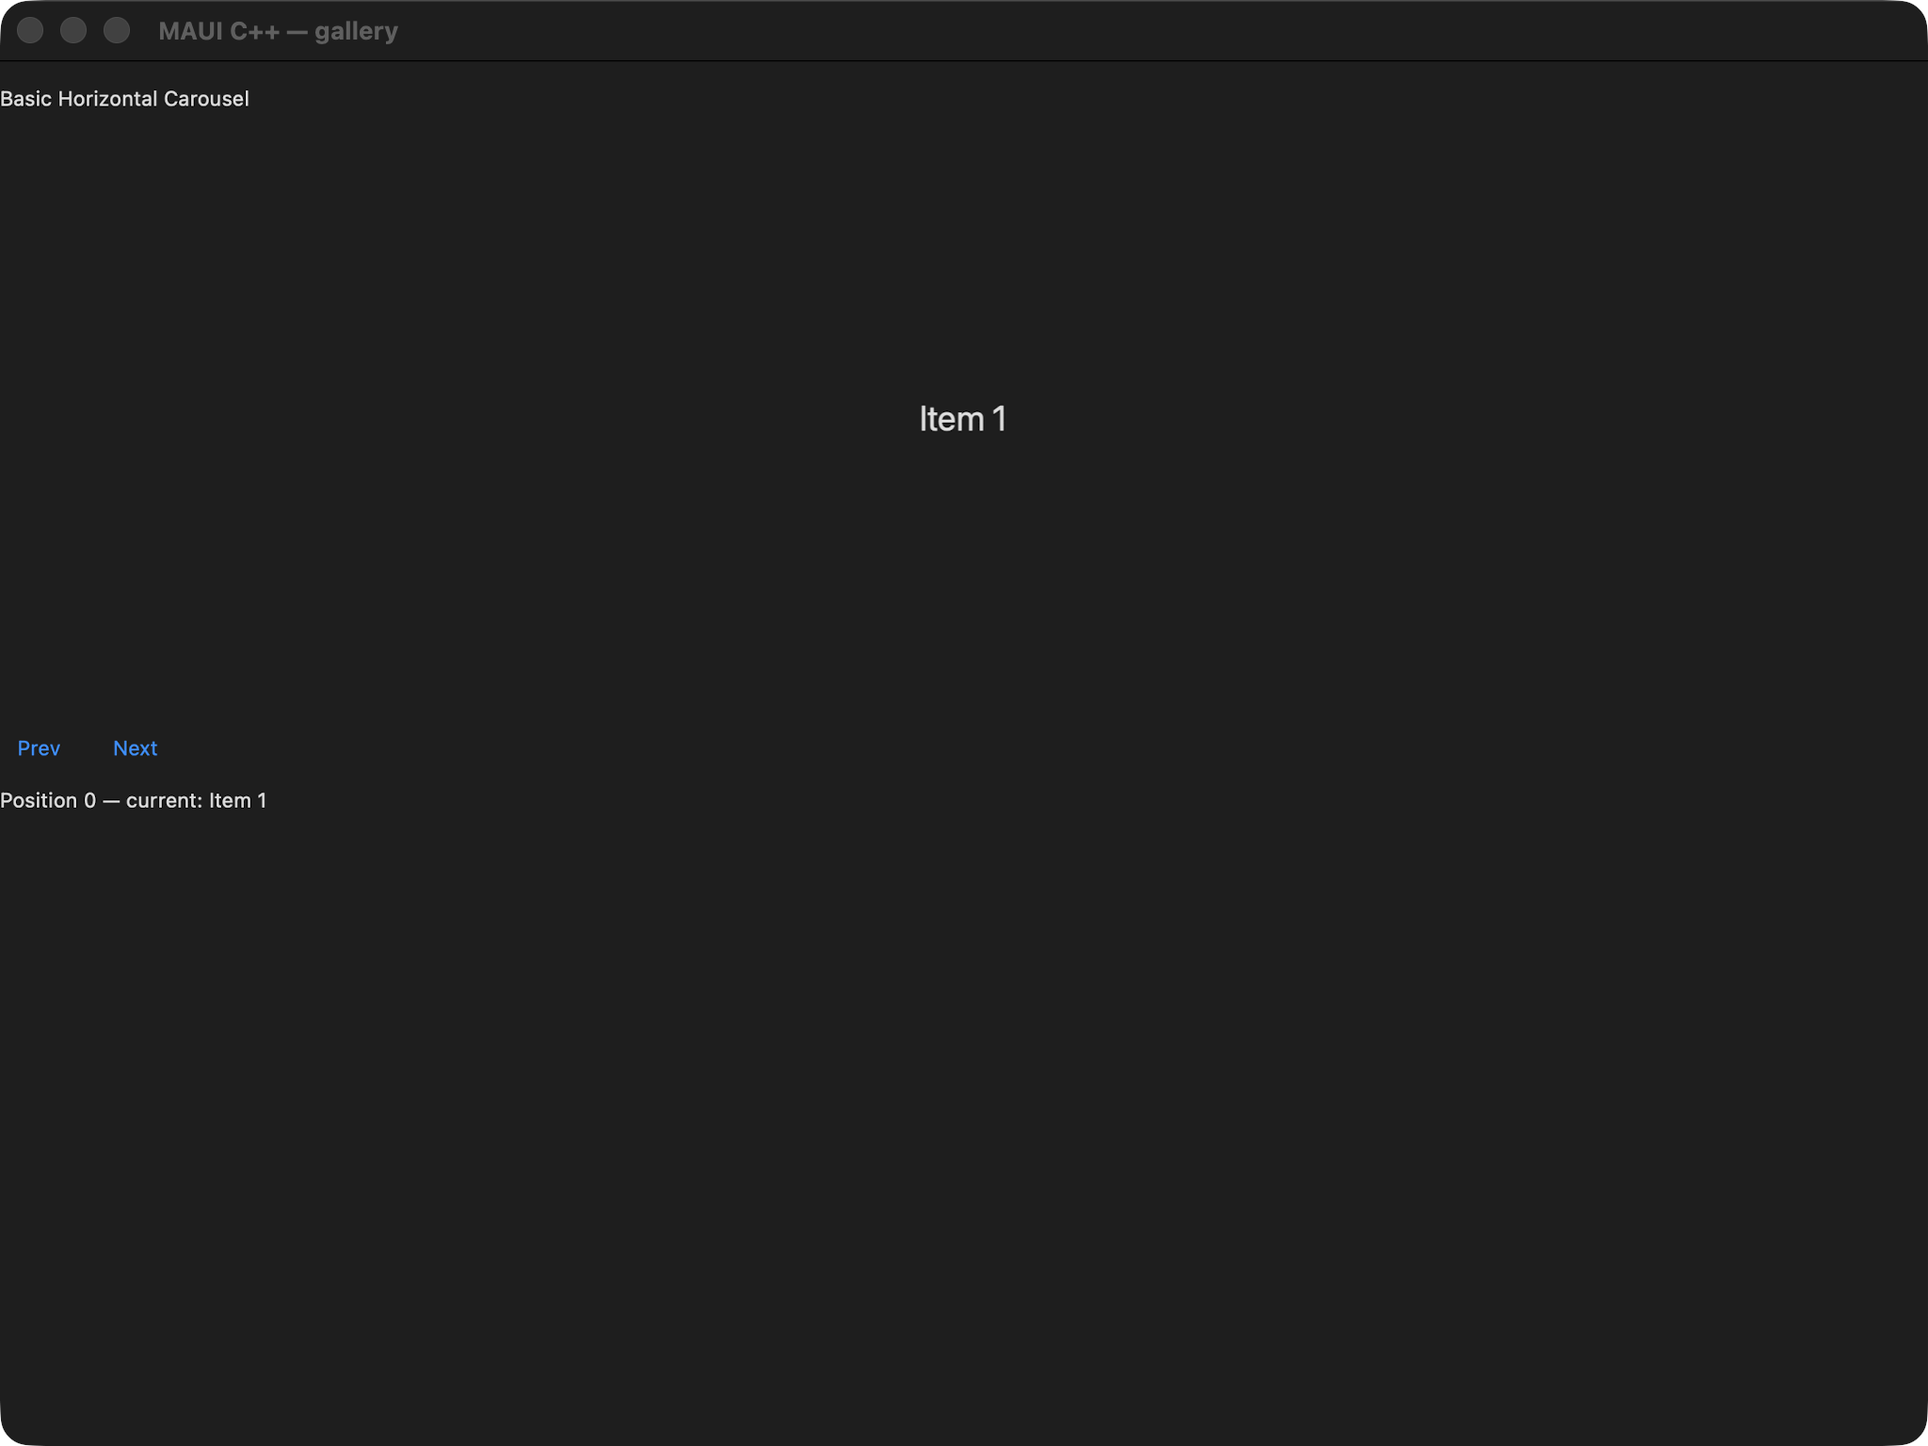
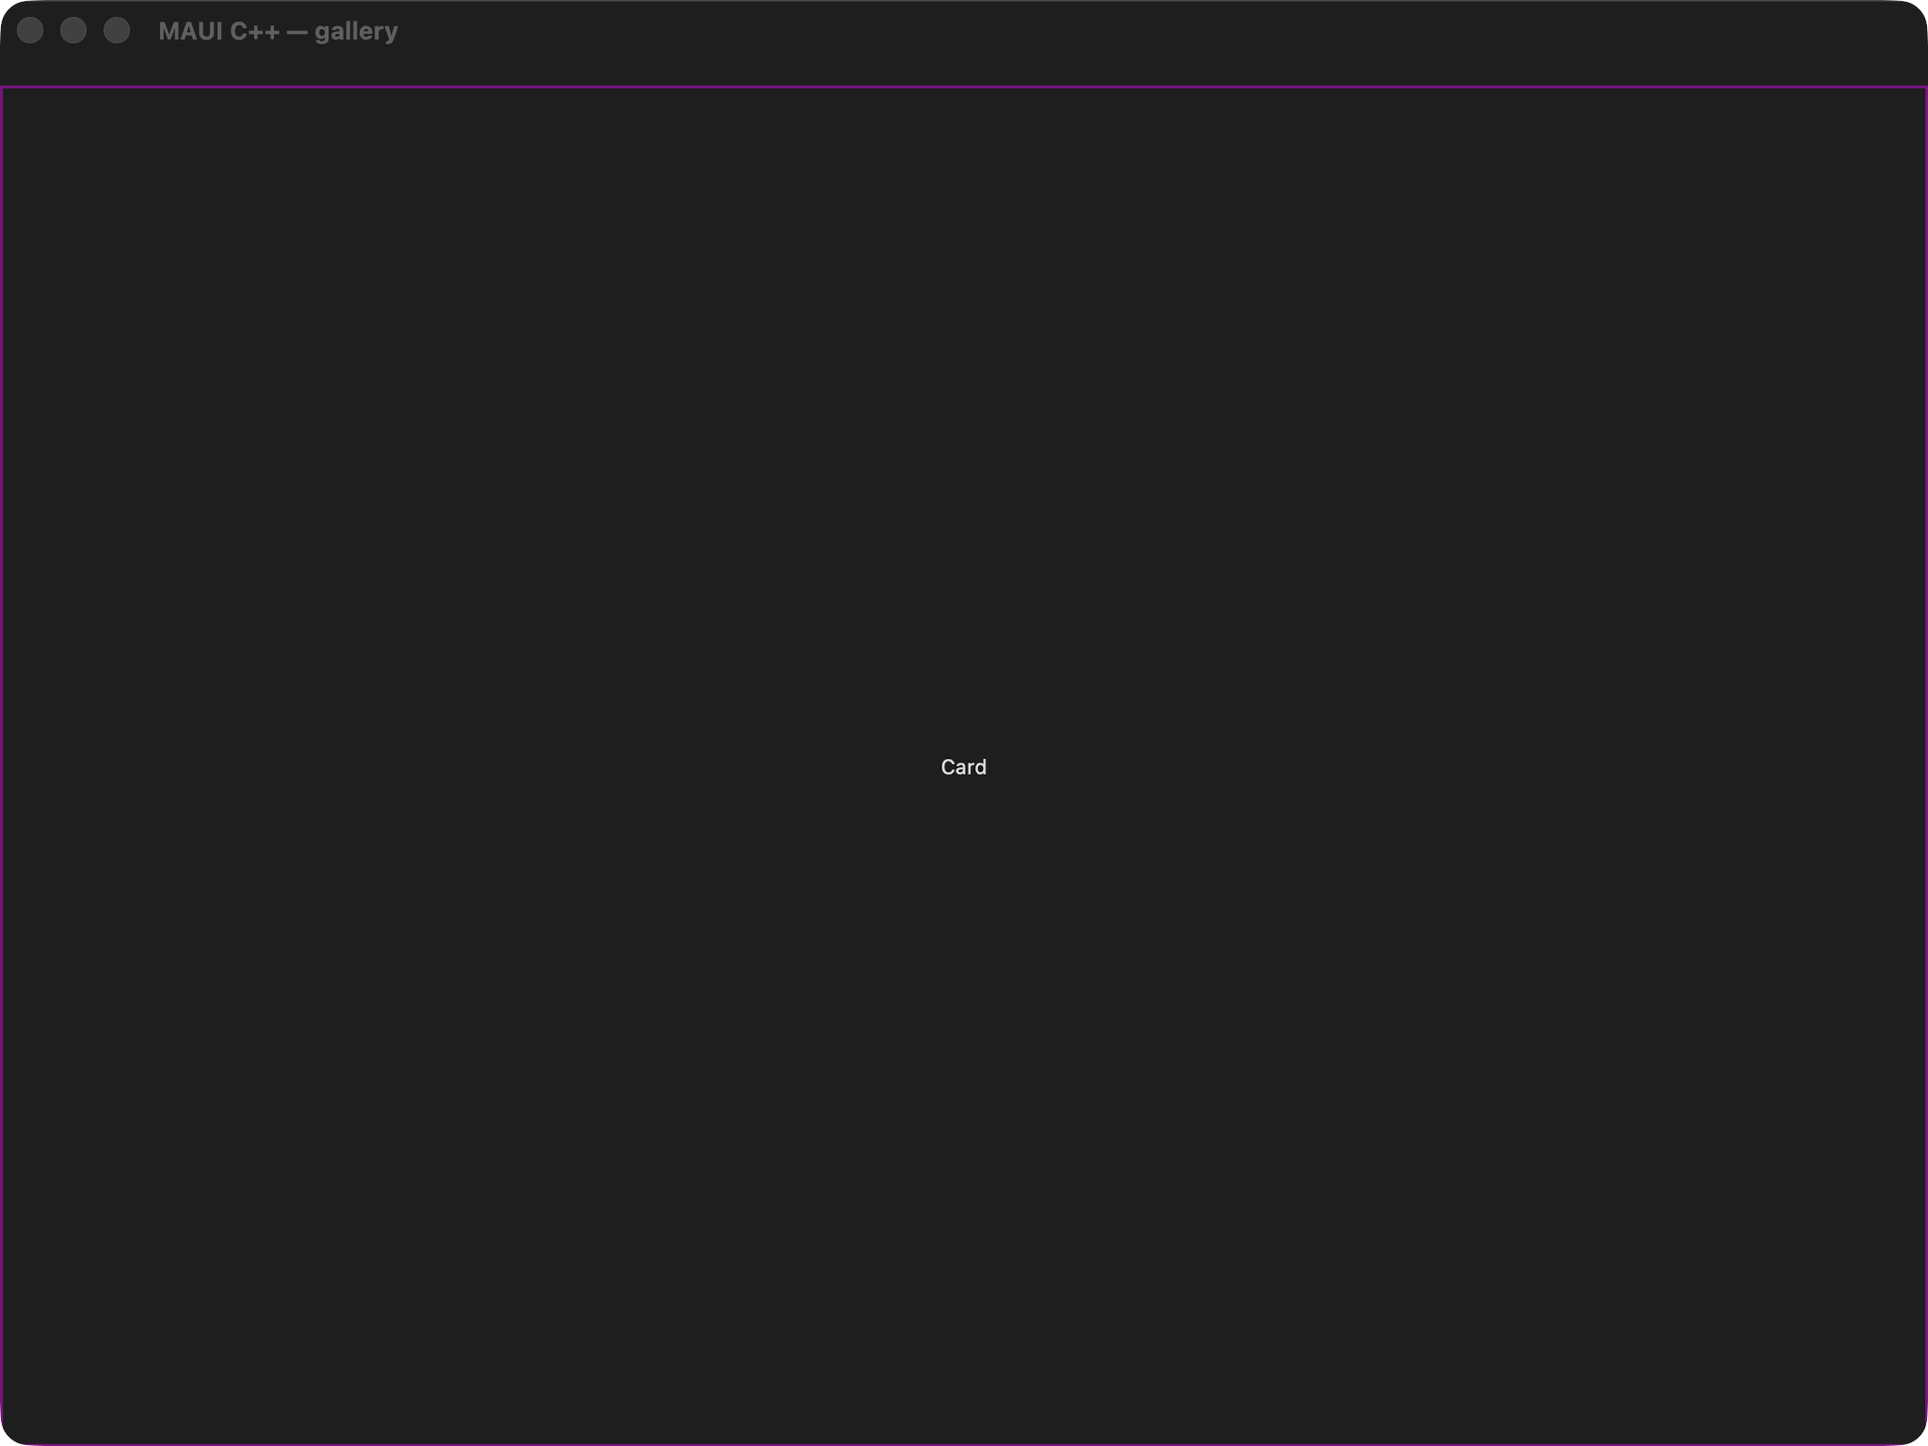
fix(gallery): carousel_page builder mirrors shared XAML (maccatalyst cpp red->green)
The carousel_page code-first twin rendered a richer 'Basic Horizontal Carousel'
(headline + Item 1/2/3 + Prev/Next + position readout) that diverged from MAUI's
render of the shared carousel_page.xaml — a single full-viewport purple-bordered
'Card' card. Rewrote the twin to mirror the XAML exactly: page root = the
CarouselView; ItemTemplate = a carousel_card (border subclass owning its Label,
Stroke=Purple/StrokeThickness=2/Padding=16, centered literal 'Card'); items =
the {Card 1,2,3} x:Array. register_handlers() maps carousel_card -> border_handler
pre-mount (the cv_visual_states line_item_cell pattern). Now SSIM ~0.977 / 0.78%
diff vs MAUI, matching the green xaml column.

carousel_page removed from the structure-equivalence known_diverging list (cluster
D) — the builder is now structurally strict (content_page > CarouselView leaf), and
the strict EXPECT_EQ passes. All 196 carousel + structure-equivalence headless tests
green; consistency 0/520.

Changed region(s): [[0.0, 0.5, 0.125, 0.5625], [0.0, 0.0625, 0.125, 0.0938], [0.4688, 0.2812, 0.5312, 0.3125]]

diff --git a/port/cpp/examples/gallery/pages/carousel_page.hpp b/port/cpp/examples/gallery/pages/carousel_page.hpp
@@ -1,106 +1,88 @@
 #pragma once
-// maui::samples::carousel_page — ports CarouselViewGalleries/CarouselViewPage.xaml (+ .xaml.cs).
+// maui::samples::carousel_page — the code-first twin of the shared port/maui-reference/pages/carousel_page.xaml.
 //
-// The original page (CarouselViewPage): a BasePage titled "CarouselView" with a StackLayout (Margin 12)
-// holding a Headline Label "Basic Horizontal Carousel" over a CarouselView whose ItemsSource is the
-// string array {"Item 1","Item 2","Item 3"} and whose ItemTemplate is a Grid with a centered Large Label
-// bound to {Binding} (the item string), plus a TapGestureRecognizer that, on tap, shows a DisplayAlert
-// ("Item", "Tapped", "Successfully").
+// The shared XAML is a bare CarouselView (the ContentPage's only content) whose ItemsSource is an inline
+// x:Array of three strings and whose ItemTemplate is a purple-stroked Border (StrokeThickness 2, Padding 16)
+// wrapping a centered Label with the LITERAL text "Card":
 //
-// This port mirrors that shape code-first:
-//   - the carousel_view is fed the three string items via set_items_source(observable_collection<string>)
-//     (items_view::set_items_source — the typed live source over the erased seam);
-//   - the ItemTemplate is a centered Label bound to the item string itself ({Binding} → identity), the
-//     items_page identity-binding precedent (set_binding<std::string,std::string> returning the value);
-//   - Next / Prev buttons mutate carousel.Position (carousel_view::set_position) — the demo affordance the
-//     task calls for (the oracle has no buttons; on a device the user swipes). Next/Prev clamp to the item
-//     range; a Position change drives the carousel's command → event → hook choreography;
-//   - a CurrentItem readout label reports the settled item: subscribe to `current_item_changed` and render
-//     the new boxed item's text. set_position writes Position; the headless carousel keeps CurrentItem in
-//     step with Position through the same items virtualization the collection_view uses, so the readout
-//     tracks the visible item. The readout also seeds from position 0 at build time.
+//   <CarouselView>
+//     <CarouselView.ItemsSource><x:Array Type="{x:Type x:String}">Card 1/2/3</x:Array></CarouselView.ItemsSource>
+//     <CarouselView.ItemTemplate><DataTemplate>
+//       <Border Stroke="Purple" StrokeThickness="2" Padding="16">
+//         <Label Text="Card" HorizontalTextAlignment="Center" VerticalTextAlignment="Center" />
+//       </Border>
+//     </DataTemplate></CarouselView.ItemTemplate>
+//   </CarouselView>
 //
-// The page OWNS its whole element tree (the items_page pattern). It is backend-agnostic — a sample main
-// attaches handlers bottom-up via the hosting layer and hosts page() in a window; the headless
-// carousel reuses the collection_view virtualization simulator, so a static capture realizes the item
-// cells and the position/current-item state the readout reflects.
+// A CarouselView shows ONE item at a time, so the resting page is a single full-viewport purple-bordered card
+// reading "Card". This twin mirrors that EXACTLY (page root = the CarouselView; no headline / Prev-Next /
+// readout chrome — those were an earlier richer-demo divergence that made the builder column diverge from
+// MAUI on the board; carousel_page is now structurally strict, removed from the equivalence gate's
+// known_diverging list).
 //
-// note: the C# cell's TapGestureRecognizer → DisplayAlert("Item","Tapped","Successfully") is a per-cell
-//       gesture firing a modal alert. A templated cell's gesture has no headless realization (the
-//       simulator does not synthesize taps on virtualized cells) and DisplayAlert is a page-modal service;
-//       both are OMITTED here (best-effort: the Next/Prev + readout demonstrate the carousel's core
-//       Position/CurrentItem behavior the page is built around). Not invented — left as a documented gap.
-// note: the C# Headline style + Margin="12" are cosmetic; the headline text is preserved as a plain Label,
-//       the margin left default (no headless effect).
+// The item cell is a data_template::of<carousel_card>() — carousel_card is a border subclass that OWNS its
+// Label child as a member (layout/border content is a NON-OWNING reference — PROFILE §8 — so a template cell
+// that adds a freshly-created child must own it), the same composite-cell pattern as cv_visual_states_page's
+// line_item_cell and header_footer_template_page's photo_cell. The Label text is the literal "Card" (the XAML
+// binds no item value into it), so the cell needs no binding. carousel_card is a brand-new user type whose
+// handler isn't self-registered; register_handlers() maps it to border_handler in the app's per-app registry
+// BEFORE the collection_view realize walk (gallery_pre_mount), exactly like line_item_cell -> layout_handler.
 
 #include <memory>
 #include <string>
 #include <vector>
 
-#include "maui/controls/button.hpp"
+#include "maui/controls/border.hpp"
 #include "maui/controls/content_page.hpp"
-#include "maui/controls/horizontal_stack_layout.hpp"
-#include "maui/controls/items/boxed_item.hpp"
 #include "maui/controls/items/carousel_view.hpp"
 #include "maui/controls/label.hpp"
 #include "maui/controls/templates/data_template.hpp"
-#include "maui/controls/vertical_stack_layout.hpp"
-#include "maui/core/font.hpp"
+#include "maui/core/border_handler.hpp"
+#include "maui/core/handler_registry.hpp"
 #include "maui/core/observable_collection.hpp"
 #include "maui/core/text_alignment.hpp"
+#include "maui/core/thickness.hpp"
+#include "maui/graphics/colors.hpp"
+#include "maui/graphics/solid_paint.hpp"
+#include "maui/hosting/maui_app.hpp"
 
 namespace maui::samples
 {
     class carousel_page
     {
     public:
+        // The ItemTemplate cell root: a Border (Stroke=Purple, StrokeThickness=2, Padding=16) owning a
+        // centered "Card" Label. Default-constructible so data_template::of<carousel_card>() activates it.
+        // The Label fills the Border's content rect, so its H/V text alignment centers "Card" in the card.
+        class carousel_card final : public maui::controls::border
+        {
+        public:
+            carousel_card()
+            {
+                set_stroke(std::make_shared<maui::graphics::solid_paint>(maui::graphics::colors::purple));
+                set_stroke_thickness(2);
+                set_padding(maui::core::thickness(16));
+                label_.set_text("Card");
+                label_.set_horizontal_text_alignment(maui::core::text_alignment::center);
+                label_.set_vertical_text_alignment(maui::core::text_alignment::center);
+                set_content(label_);
+            }
+
+        private:
+            maui::controls::label label_;
+        };
+
         carousel_page()
             : items_(std::make_shared<maui::core::observable_collection<std::string>>(
-                  std::vector<std::string>{"Item 1", "Item 2", "Item 3"})) // C# x:Array of x:String
+                  std::vector<std::string>{"Card 1", "Card 2", "Card 3"})) // the x:Array of x:String
         {
             page_.set_title("CarouselView");
-            root_.set_spacing(12); // stands in for the StackLayout Margin="12" gutter
 
-            headline_.set_text("Basic Horizontal Carousel"); // the Headline Label
-
-            // ItemTemplate: a centered Label bound to {Binding} — the item string itself (identity bind).
-            // maui-compare centers the Label in its cell via HorizontalOptions/VerticalOptions=Center +
-            // FontSize=24. Use LAYOUT alignment (not text alignment): the label sits at its natural height,
-            // so text-alignment can only center within that small frame (leaving it at the cell top) —
-            // layout-alignment centers the whole label frame in the cell's full height, matching MAUI.
-            auto cell = maui::controls::data_template::of<maui::controls::label>();
-            cell->set_binding<std::string, std::string>(maui::controls::label::text_property(),
-                                                        [](const std::string& value) { return value; });
-            cell->set_value(maui::controls::horizontal_layout_alignment_property(),
-                            maui::core::layout_alignment::center);
-            cell->set_value(maui::controls::vertical_layout_alignment_property(), maui::core::layout_alignment::center);
-            cell->set_value(maui::controls::label::font_property(), maui::core::font::system_font_of_size(24));
-            carousel_.set_item_template(cell);
+            carousel_.set_item_template(maui::controls::data_template::of<carousel_card>());
             carousel_.set_items_source(items_);
-            // Give the carousel a finite, tall viewport so it fills the stack's remaining height instead of
-            // collapsing to its content's minimum size.
-            carousel_.set_height_request(400);
 
-            // CurrentItem readout: track the settled item as Position changes.
-            carousel_.current_item_changed.connect(
-                [this](const maui::controls::current_item_changed_event_args& args) { update_readout(args); });
-            seed_readout(); // position 0 at build time
-
-            // Next / Prev buttons mutate Position (the demo affordance — see header note).
-            prev_button_.set_text("Prev");
-            prev_button_.command = [this] { go_prev(); };
-            next_button_.set_text("Next");
-            next_button_.command = [this] { go_next(); };
-
-            buttons_.set_spacing(12);
-            buttons_.add(prev_button_);
-            buttons_.add(next_button_);
-
-            root_.add(headline_);
-            root_.add(carousel_);
-            root_.add(buttons_);
-            root_.add(readout_);
-            page_.set_content(root_);
+            // The ContentPage's only content IS the CarouselView (the shared XAML root).
+            page_.set_content(carousel_);
         }
 
         [[nodiscard]] maui::controls::content_page& page()
@@ -108,74 +90,28 @@ namespace maui::samples
             return page_;
         }
 
-        // ---- owned controls exposed for the hosting main / tests ----
         [[nodiscard]] maui::controls::carousel_view& carousel()
         {
             return carousel_;
         }
-        [[nodiscard]] maui::controls::button& prev_button()
-        {
-            return prev_button_;
-        }
-        [[nodiscard]] maui::controls::button& next_button()
-        {
-            return next_button_;
-        }
-        [[nodiscard]] maui::controls::label& readout()
-        {
-            return readout_;
-        }
+
         [[nodiscard]] const std::shared_ptr<maui::core::observable_collection<std::string>>& items() const
         {
             return items_;
         }
 
-        // Advance one item, clamped to the last index (the carousel snaps to a valid position).
-        void go_next()
+        // PRE-MOUNT hook (gallery_host.hpp gallery_pre_mount): register carousel_card's handler BEFORE the
+        // collection_view realize walk. carousel_card is a border subclass, so it shares border's handler;
+        // without this the native cell realize silently no-ops (no registered handler for its type_tag) and
+        // the carousel renders blank. Mirrors cv_visual_states_page::register_handlers.
+        void register_handlers(maui::hosting::maui_app& app)
         {
-            const int last = item_count() - 1;
-            if (last < 0)
-            {
-                return;
-            }
-            const int target = carousel_.position() + 1;
-            carousel_.set_position(target > last ? last : target);
-        }
-
-        // Step back one item, clamped to the first index.
-        void go_prev()
-        {
-            const int target = carousel_.position() - 1;
-            carousel_.set_position(target < 0 ? 0 : target);
+            maui::core::register_handler<carousel_card, maui::core::border_handler>(app.handlers());
         }
 
     private:
-        [[nodiscard]] int item_count() const
-        {
-            return static_cast<int>(items_->items().size());
-        }
-
-        void update_readout(const maui::controls::current_item_changed_event_args& args)
-        {
-            const std::string item = args.current_item.has_value() ? args.current_item.text() : std::string{"(none)"};
-            readout_.set_text("Position " + std::to_string(carousel_.position()) + " — current: " + item);
-        }
-
-        // Seed the readout from position 0 (the carousel's initial item) at build time.
-        void seed_readout()
-        {
-            const std::string first = item_count() > 0 ? items_->items().front() : std::string{"(none)"};
-            readout_.set_text("Position 0 — current: " + first);
-        }
-
         std::shared_ptr<maui::core::observable_collection<std::string>> items_; // publisher before the view (§8)
         maui::controls::content_page page_;
-        maui::controls::vertical_stack_layout root_;
-        maui::controls::label headline_;
         maui::controls::carousel_view carousel_;
-        maui::controls::horizontal_stack_layout buttons_; // a simple Prev/Next row
-        maui::controls::button prev_button_;
-        maui::controls::button next_button_;
-        maui::controls::label readout_;
     };
 } // namespace maui::samples

diff --git a/port/cpp/tests/ui/gallery_structure_equivalence_tests.cpp b/port/cpp/tests/ui/gallery_structure_equivalence_tests.cpp
@@ -279,7 +279,6 @@ namespace
             "swipe_threshold",
             "radio_button_group",
             // cluster D — twin structurally rewritten around unsupported features / loader gaps
-            "carousel_page",
             "tabbed_flyout",
             "radio_button_content",
             "adaptive_collection",

diff --git a/port/cpp/docs/comparison/README.md b/port/cpp/docs/comparison/README.md
@@ -3687,9 +3687,9 @@ _Not yet computed — no automated pixel-diff score is recorded for this page ye
 
 | Classification | Sonnet 5 | Gemini |
 | --- | --- | --- |
-| 🟢 Match | 110 | 0 |
+| 🟢 Match | 111 | 0 |
 | 🟡 Minor | 62 | 0 |
-| 🔴 Major | 4 | 0 |
+| 🔴 Major | 3 | 0 |
 | ⬛ Blank | 7 | 0 |
 | ⏳ Unreviewed | 12 | 195 |
 
@@ -4126,16 +4126,16 @@ _Not yet reviewed._
 
 _Not yet computed — no automated pixel-diff score is recorded for this page yet._
 
-### 24. Carousel Page — 🔴/⏳
+### 24. Carousel Page — 🟢/⏳
 <sub>carousel_page</sub>
 
 <table><tr><th></th><th>MAUI</th><th>C++</th><th>C++ &amp; XAML</th><th>AppKit / C++</th><th>AppKit / C++ &amp; XAML</th></tr><tr><th>Light</th><td><img width="300px" src="../../../maui-reference/captures/maccatalyst/carousel_page_light.png" /></td><td><img width="300px" src="captures/maccatalyst/cpp/carousel_page_light.png" /></td><td><img width="300px" src="captures/maccatalyst/xaml/carousel_page_light.png" /></td><td><img width="300px" src="captures/maccatalyst/appkit_cpp/carousel_page_light.png" /></td><td><img width="300px" src="captures/maccatalyst/appkit_xaml/carousel_page_light.png" /></td></tr><tr><th>Dark</th><td><img width="300px" src="../../../maui-reference/captures/maccatalyst/carousel_page_dark.png" /></td><td><img width="300px" src="captures/maccatalyst/cpp/carousel_page_dark.png" /></td><td><img width="300px" src="captures/maccatalyst/xaml/carousel_page_dark.png" /></td><td><img width="300px" src="captures/maccatalyst/appkit_cpp/carousel_page_dark.png" /></td><td><img width="300px" src="captures/maccatalyst/appkit_xaml/carousel_page_dark.png" /></td></tr></table>
 
 Carousel Page
 
-#### 🔴 Sonnet 5 Review
+#### 🟢 Sonnet 5 Review
 
-The MAUI reference capture is completely blank in both themes while cpp renders a 'Basic Horizontal Carousel' with Item 1, Prev/Next and position text — no usable ground truth to confirm parity, so both comparisons mismatch as captured; the MAUI ref likely needs recapture.
+C1/C3: builder rewritten to mirror the shared XAML (page root = CarouselView; ItemTemplate = purple Border/StrokeThickness2/Padding16 + centered 'Card' label via a carousel_card border-subclass cell). Renders the single purple-bordered 'Card' card identically to MAUI in both themes (SSIM ~0.977, 0.78% diff). Prior red was the old richer 'Basic Horizontal Carousel' demo divergence (+ a stale 'blank MAUI ref' note). Now matches the green xaml column.
 
 #### ⏳ Gemini Review
 
